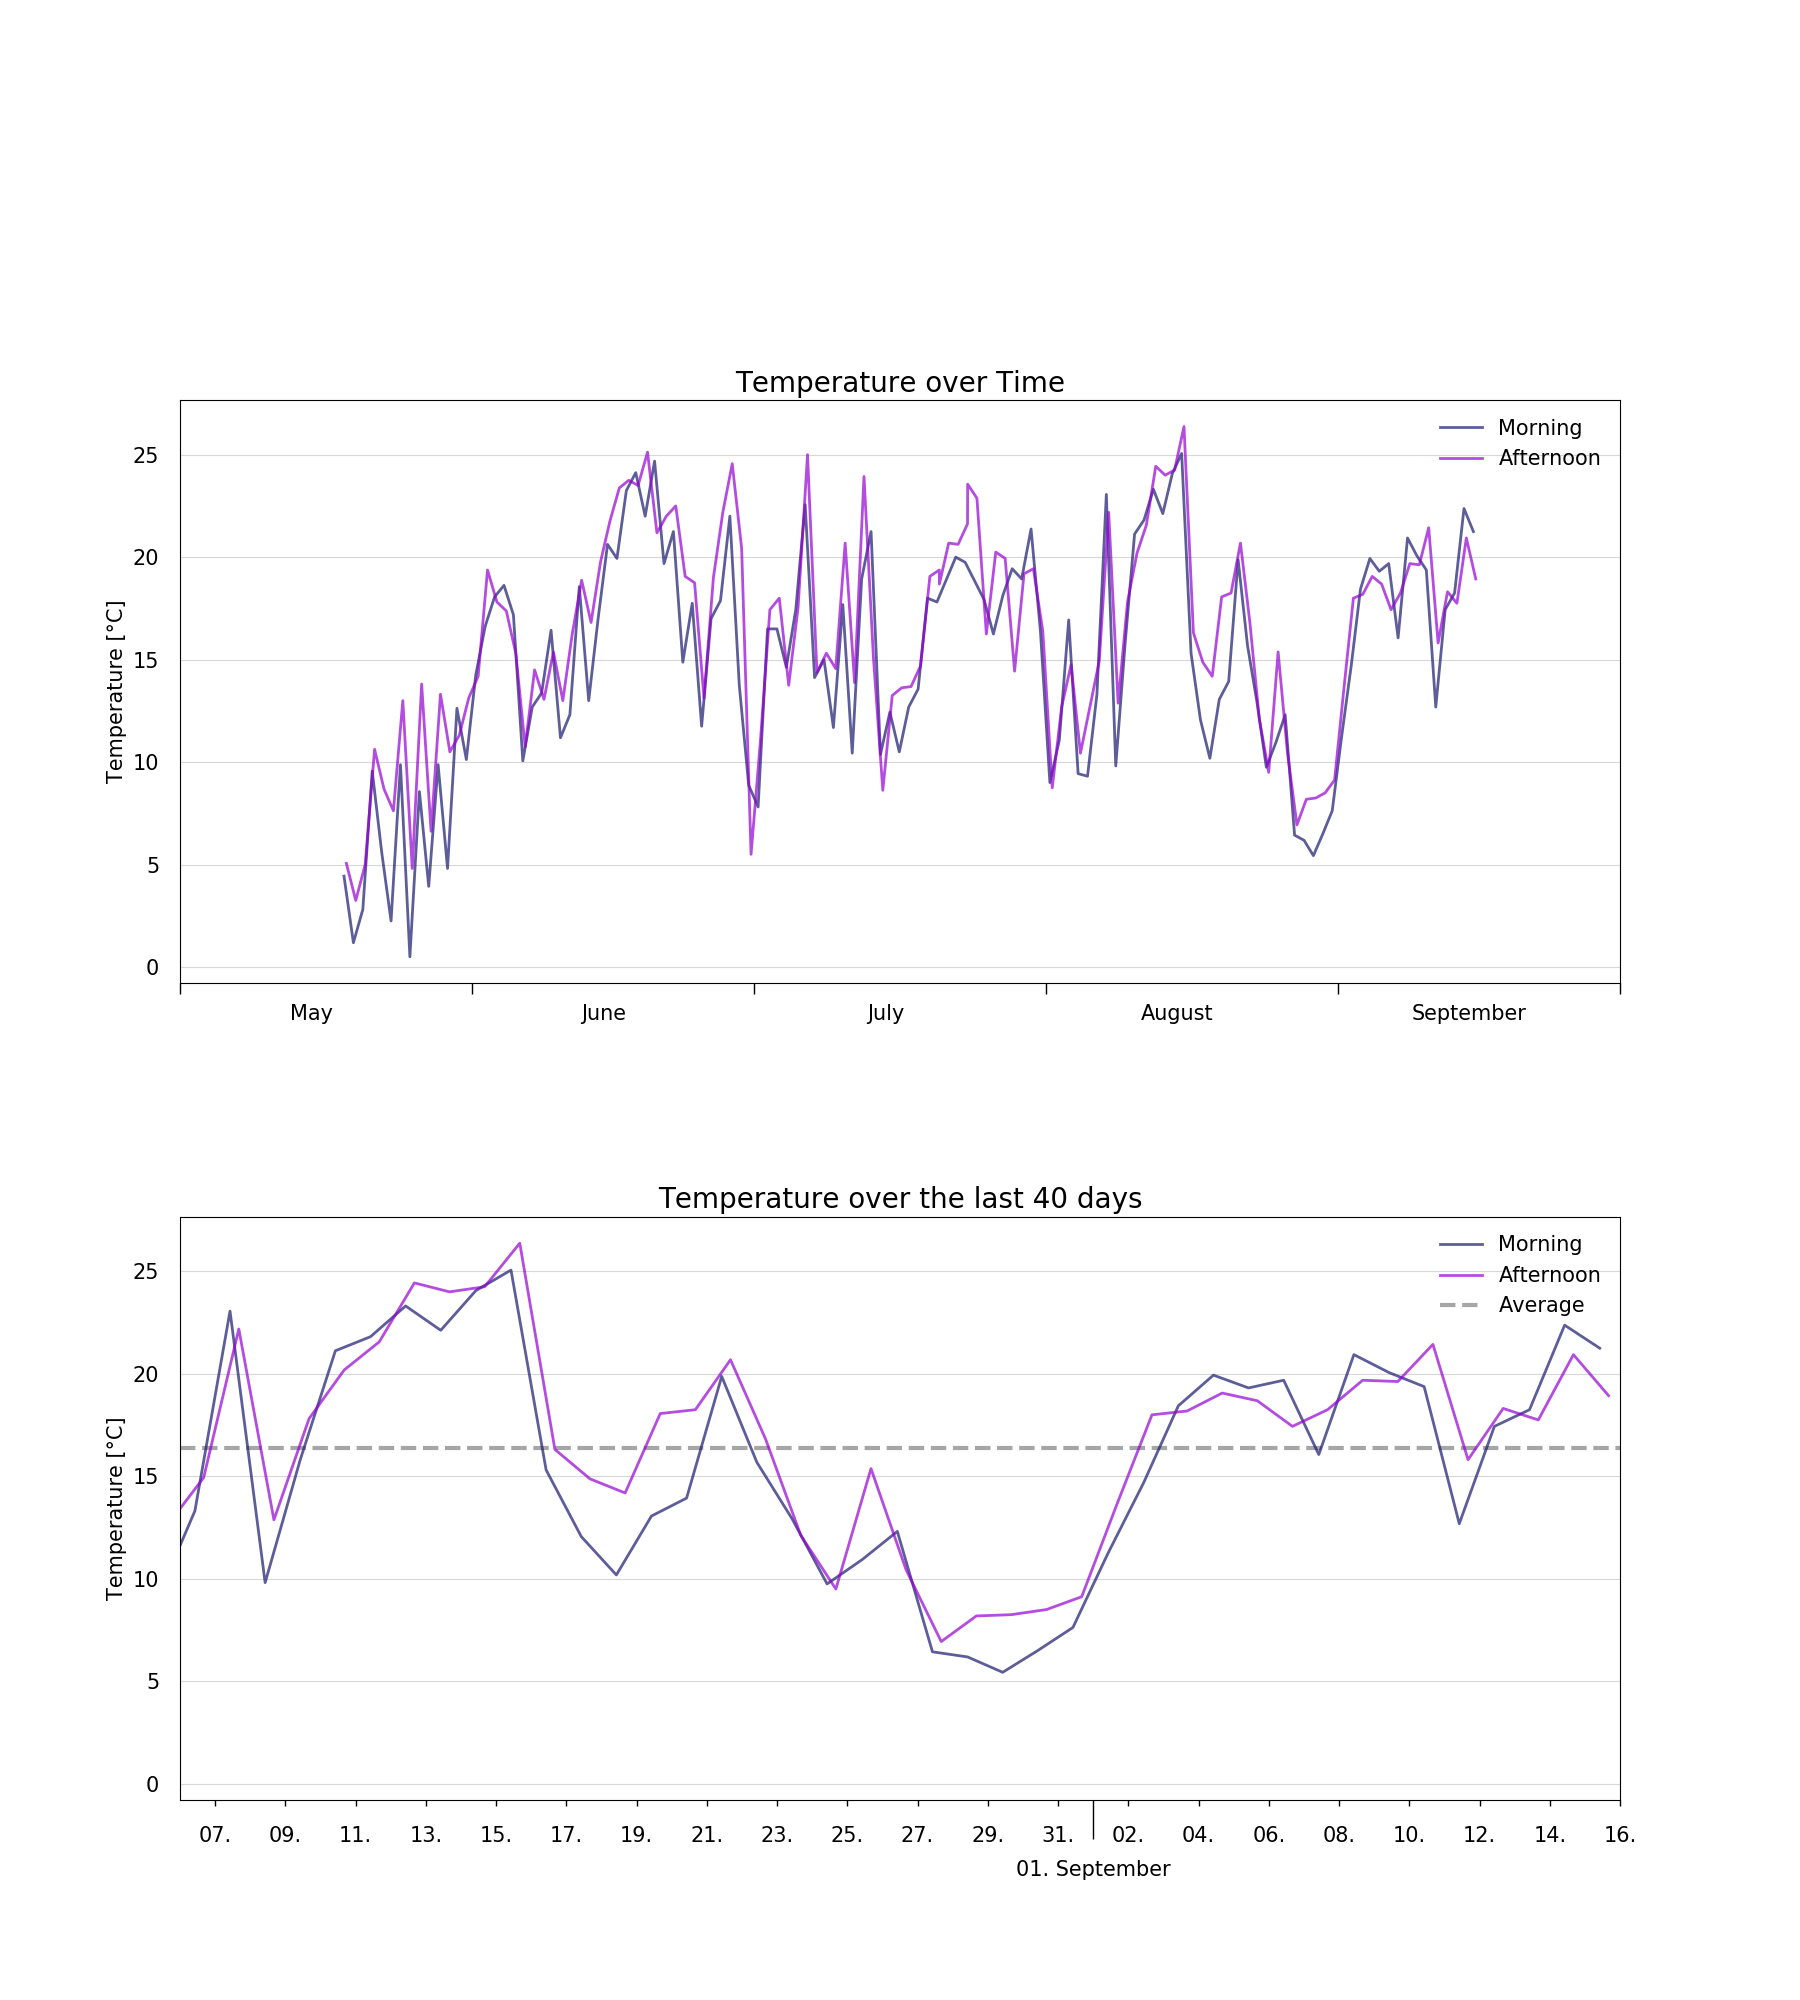
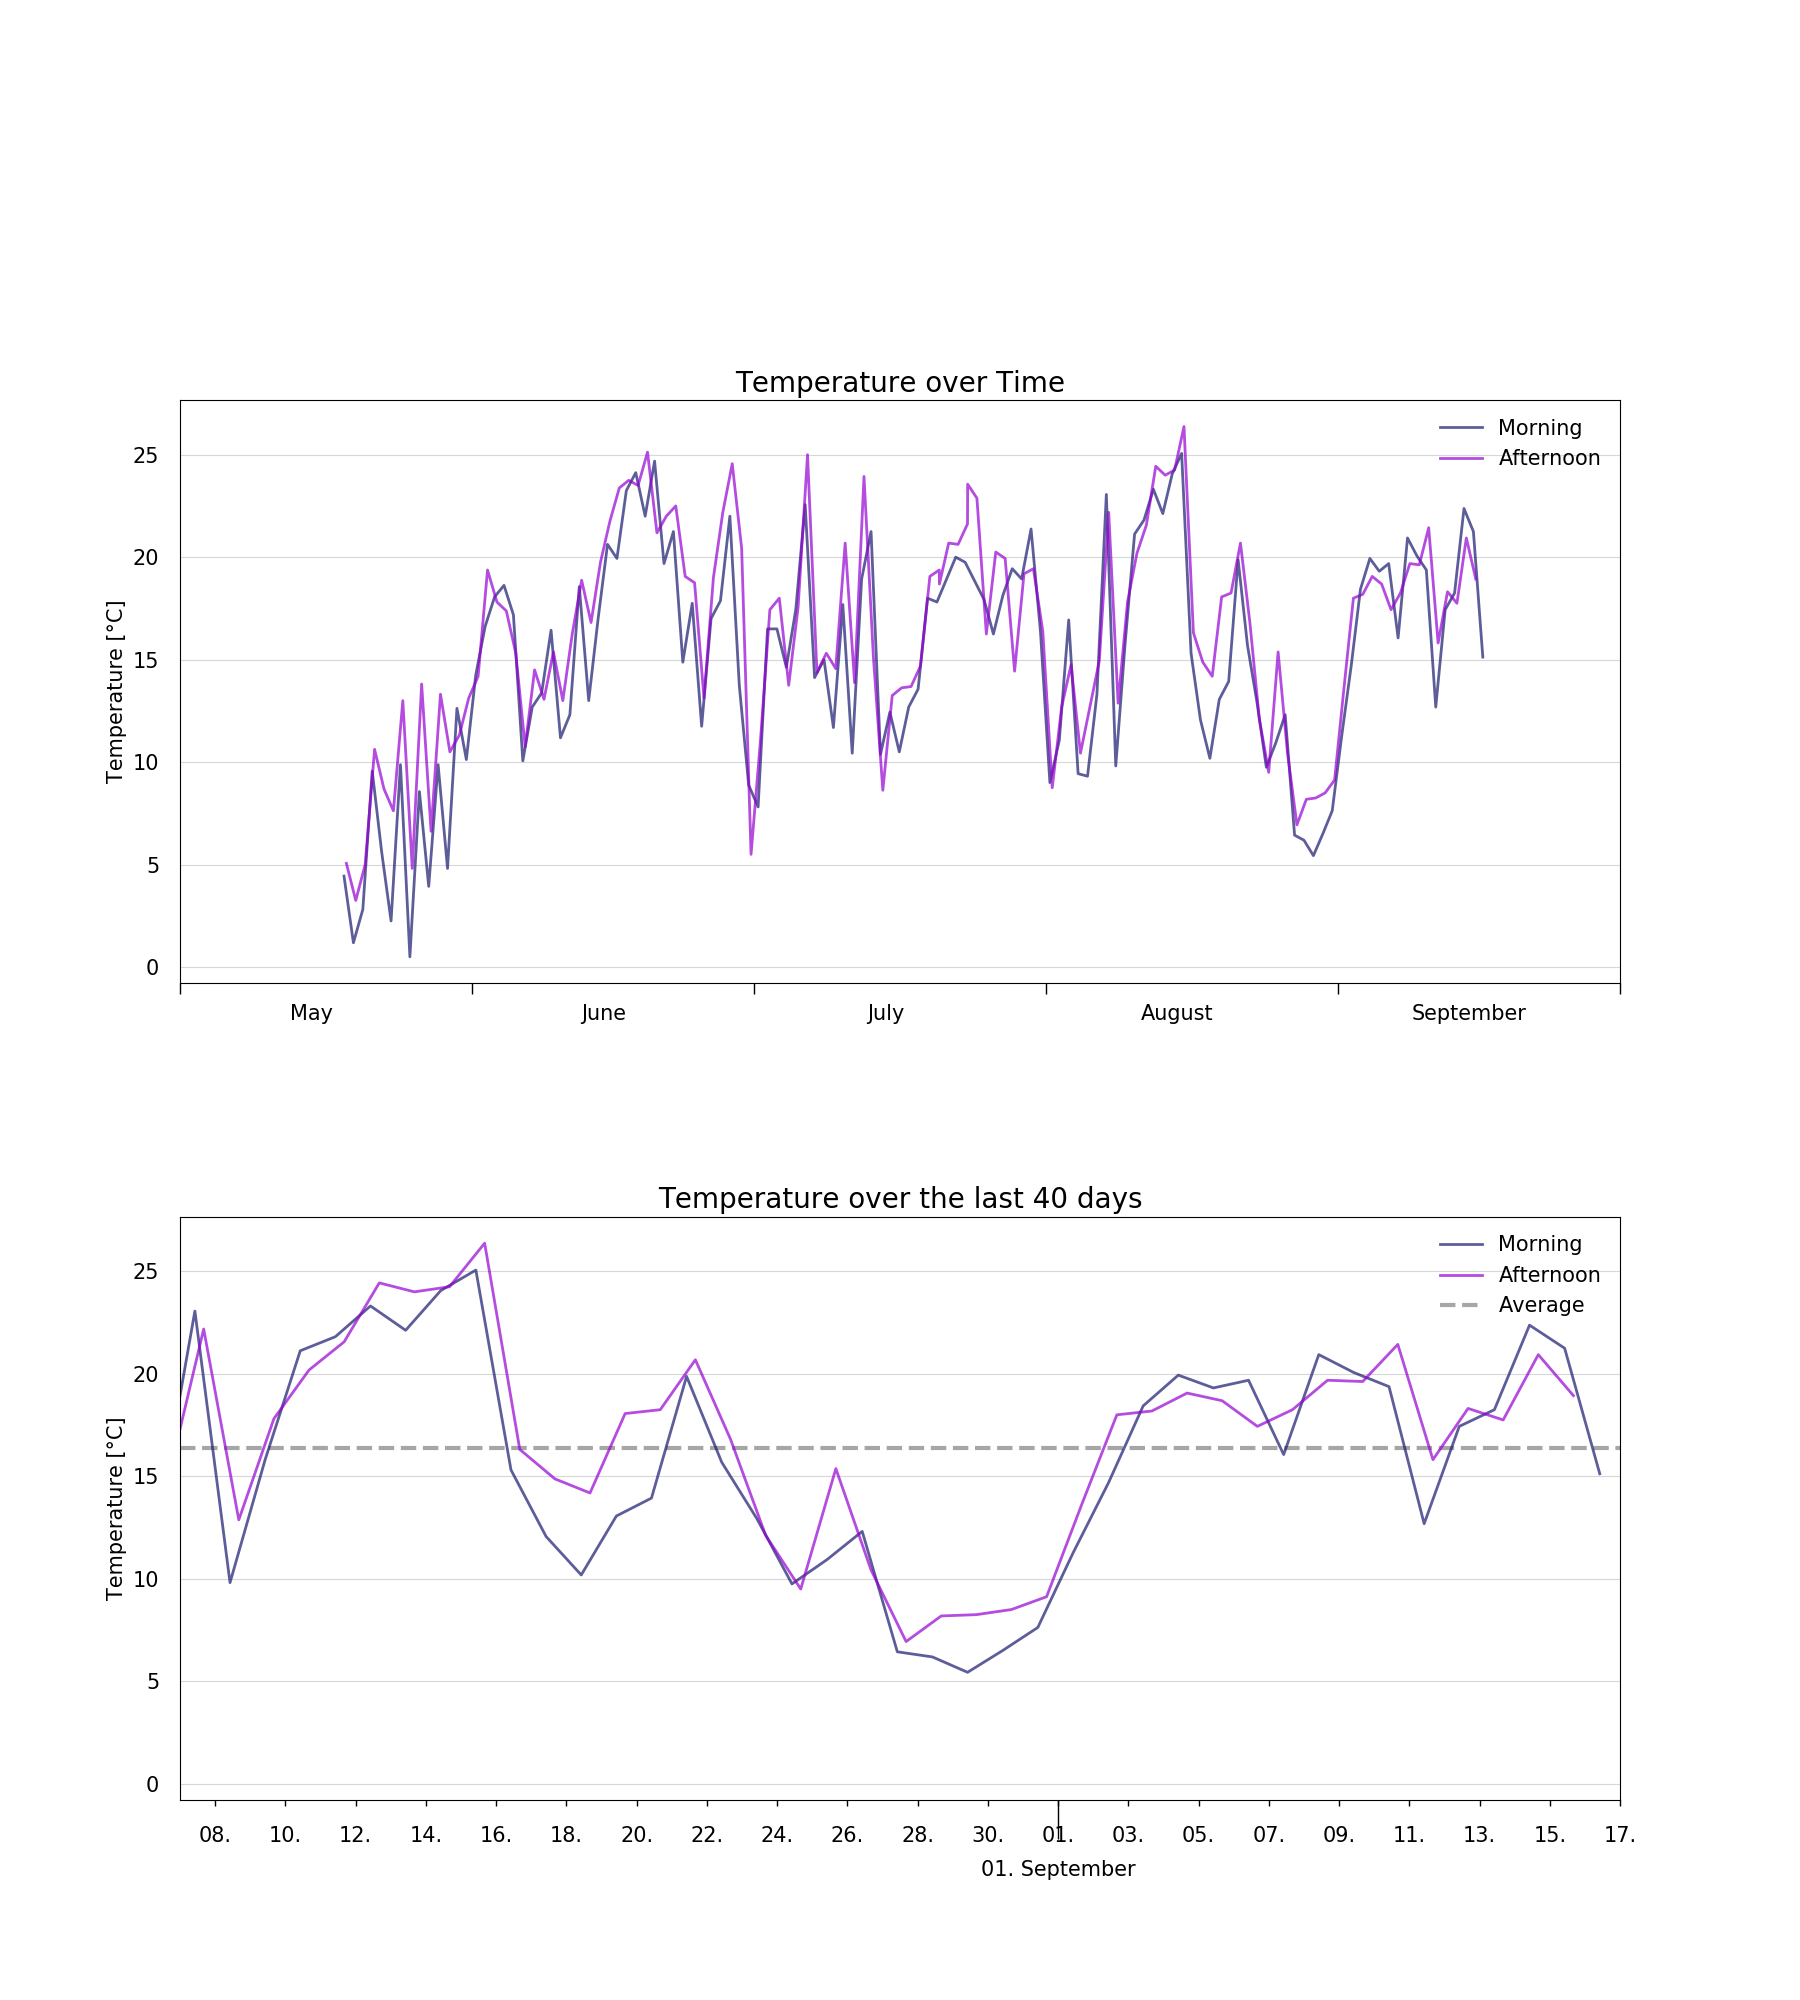
I'm a bot beep boop

Changed region(s): [[0.1867, 0.62, 0.9022, 0.837], [0.0933, 0.651, 0.1867, 0.806], [0.56, 0.93, 0.6533, 0.961]]

diff --git a/resources/huette.md b/resources/huette.md
@@ -6,13 +6,13 @@ image: '/assets/img/'
 description: 'Live image from the Austrian alps'
 twitter_text: ' '
 ---
-## Latest image from 15 September 2021 at 16:11
+## Latest image from 16 September 2021 at 10:10
 <div class="huette">
   <div class="huette-image">
     <img src="{{ "/assets/img/huette.jpg" | prepend: site.baseurl }}">
   </div>
   <div class="huette-text">
-        <h2>Current Temperature: 18.937°C</h2>
+        <h2>Current Temperature: 15.125°C</h2>
         <p>A solar powered raspberry pi left alone in the wild is sending daily images and temperature data to this website. It should give you an impression about the current weather in the "Brixental".</p>
 
   </div>

diff --git a/rpi-script/huette.md b/rpi-script/huette.md
@@ -6,13 +6,13 @@ image: '/assets/img/'
 description: 'Live image from the Austrian alps'
 twitter_text: ' '
 ---
-## Latest image from 15 September 2021 at 16:11
+## Latest image from 16 September 2021 at 10:10
 <div class="huette">
   <div class="huette-image">
     <img src="{{ "/assets/img/huette.jpg" | prepend: site.baseurl }}">
   </div>
   <div class="huette-text">
-        <h2>Current Temperature: 18.937°C</h2>
+        <h2>Current Temperature: 15.125°C</h2>
         <p>A solar powered raspberry pi left alone in the wild is sending daily images and temperature data to this website. It should give you an impression about the current weather in the "Brixental".</p>
 
   </div>
